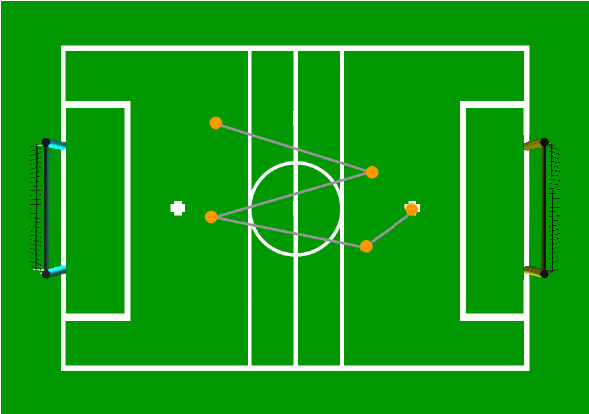
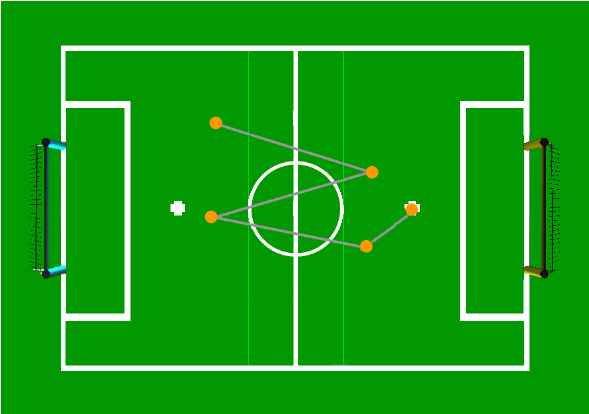
Removed additional lines

diff --git a/Challenges/Challenges.tex b/Challenges/Challenges.tex
@@ -69,7 +69,7 @@ The robot will have 3 minutes to detect the balls, walk towards them, and try to
 
 This second challenge is similar to the last year's passing challenge of the Humanoid League. It is intended to encourage teams to develop passing and catching skills. In this challenge each team will be required to demonstrate successive passes back and forth between two robots.
 
-The field is marked with two additional white lines, which are parallel to the middle line and tangential to the center circle, as shown in Figure \ref{fig:passingchallenge}. The ball is placed on a penalty kick mark.
+The field is marked with two additional lines, which are invisible to the robots, parallel to the middle line, and tangential to the center circle, as shown in Figure \ref{fig:passingchallenge}. The ball is placed on a penalty kick mark.
 One robot is placed inside each penalty area.
 
 \begin{figure}[htbp]
